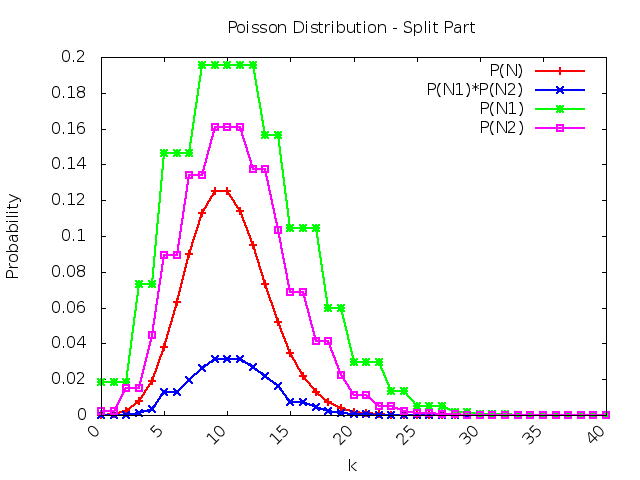
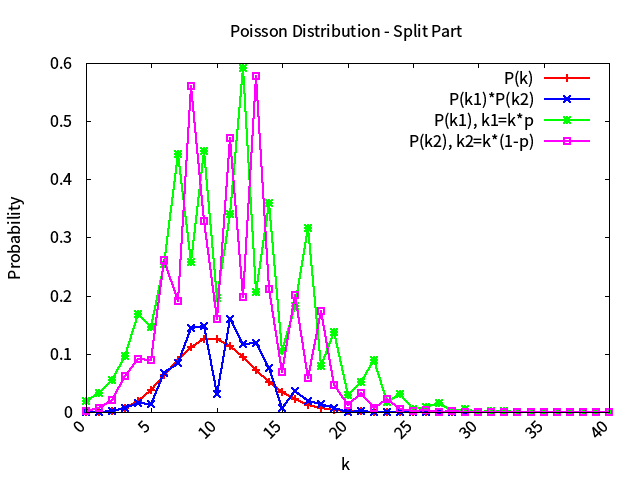
Change input param type of poisson.
* From int to double, adapt floating point.
* Make part_b result more reliable.

diff --git a/utils/poisson.cc b/utils/poisson.cc
@@ -8,6 +8,6 @@ double factorial(int k){
     return sum;
 }
 
-double poisson(int lambda,int k){
+double poisson(double lambda,double k){
     return exp(-lambda)*pow(lambda,k)/factorial(k);
 }

diff --git a/utils/poisson.h b/utils/poisson.h
@@ -5,6 +5,6 @@
 
 double factorial(int k);
 // Get P(X=k)
-double poisson(int lambda,int k);
+double poisson(double lambda,double k);
 
 #endif

diff --git a/poisson_distribution/README.md b/poisson_distribution/README.md
@@ -1,18 +1,23 @@
 # Poisson Probability Discussion
 
-After `example 2.5`, `3.31`, the program has been refactor a lot, make code reusable.
-
 <!-- TOC -->
 
 - [Poisson Probability Discussion](#poisson-probability-discussion)
+    - [Improvement](#improvement)
     - [Discuss two *network model*](#discuss-two-network-model)
         - [Example 2.37 (Merge)](#example-237-merge)
             - [Difference (TODO)](#difference-todo)
         - [Example 3.23 (Split)](#example-323-split)
-            - [Difference (TODO)](#difference-todo-1)
+            - [Difference (TODO)](#difference-todo)
     - [Author](#author)
 
 <!-- /TOC -->
+
+## Improvement 
+
+After `example 2.5`, `3.31`, the program has been refactor a lot, make code reusable.
+
+* Consider simulation need to be tested with several different input, to **accelerate** the arguments parsing process, I construct `parse_arg` class to deal with this problem. [See more about `parse_arg`.](../utils/README.md#parse_arg)
 
 ## Discuss two *network model*
 
@@ -31,7 +36,7 @@ So that we can :
 * **Separately** calculate *X* and *Y* with: $$P\{X=k\} =\frac{e^{-(\lambda_1)}}{n!} \cdot (\lambda_1)^n, P\{Y=n-k\} =\frac{e^{-(\lambda_2)}}{(n-k)!} \cdot (\lambda_2)^{n-k}$$, and need to consider the summation, from **k=0~n**: $$\sum_{k=0}^n ...$$
 
 * So we need to compare these two part:
-    * run with command `make run && make plot` to run the program and plot: $$k=40,\ \lambda_1=1,\ \lambda_2=2$$
+    * run with command `make run && make plot` to run the program and plot: $$k=40,\ \lambda_1=1,\ \lambda_2=2$$, also if you want to adjust, please using `./part_a.out -h` to see more.
     ![](part_a.png)
     * As the `part_a.png` shown, two line match perfectly. It means that the results generate `directly` or `separately` are the same.
 
@@ -41,6 +46,9 @@ So that we can :
 ### Example 3.23 (Split)
 * It will be implemented in `part_b.cc`
 ![](../res/example3_23.png)
+
+* Testing with statistics: $$k=40,\ \lambda=10,\ p=0.4$$, also if you want to adjust, please using `./part_b.out -h` to see more.
+![](part_b.png)
 
 #### Difference (TODO)
 
